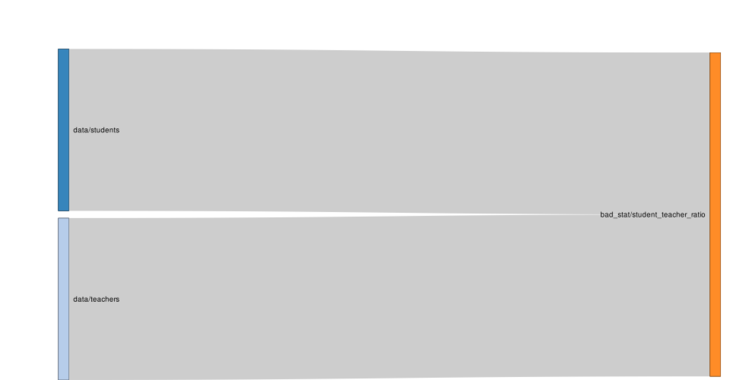
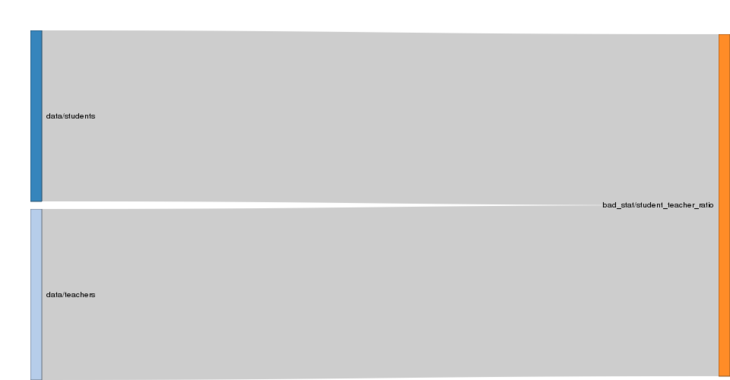
Show error locations.

Changed region(s): [[0.0301, 0.0579, 1.0, 1.0]]

diff --git a/README.md b/README.md
@@ -3,7 +3,7 @@
 
 
 
-[![Build status](https://travis-ci.org/aclemen1/modulr.svg)](https://travis-ci.org/aclemen1/modulr)
+[![Build status](https://travis-ci.org/aclemen1/modulr.svg?branch=devel)](https://travis-ci.org/aclemen1/modulr?branch=devel)
 [![Coverage status](https://codecov.io/github/aclemen1/modulr/coverage.svg?branch=devel)](http://codecov.io/github/aclemen1/modulr?branch=devel)
 [![Pending pull-requests](https://githubbadges.herokuapp.com/aclemen1/modulr/pulls.svg?style=flat)](https://github.com/aclemen1/modulr/pulls)
 [![GitHub issues](http://img.shields.io/github/issues-raw/aclemen1/modulr.svg)](http://waffle.io/aclemen1/modulr)
@@ -98,7 +98,8 @@ library(modulr)
       stringsAsFactors = F)
     return(students)
   }
-#> [2015-11-07T11:27:28 CET] Defining 'data/students' ... OK
+#> [2016-05-30T23:56:46 CEST] Defining 'data/students' ...
+#> OK
 ```
 
 The anatomy of this module is very simple: "data/student" is its name and the 
@@ -125,7 +126,8 @@ In parallel, let's ask Bob to provide us with a similar module.
       stringsAsFactors = F)
     return(teachers)
   }
-#> [2015-11-07T11:27:28 CET] Defining 'data/teachers' ... OK
+#> [2016-05-30T23:56:46 CEST] Defining 'data/teachers' ...
+#> OK
 ```
 
 Now that we have these two modules at our disposal, let's combine them into 
@@ -142,7 +144,8 @@ another module that returns a (bad) student-teacher ratio.
     ratio <- length(unique(students$id)) / length(unique(teachers$id))
     return(ratio)
   }
-#> [2015-11-07T11:27:28 CET] Defining 'bad_stat/student_teacher_ratio' ... OK
+#> [2016-05-30T23:56:46 CEST] Defining 'bad_stat/student_teacher_ratio' ...
+#> OK
 ```
 
 The `%requires%` operator allows us to specify the modules we rely on for the 
@@ -156,14 +159,17 @@ It is now time to see the DI framework in action.
 
 ```r
 bad_ratio %<=% "bad_stat/student_teacher_ratio"
-#> [2015-11-07T11:27:28 CET] Making 'bad_stat/student_teacher_ratio' ...
-#> [2015-11-07T11:27:28 CET] * Visiting and defining dependencies ...
-#> [2015-11-07T11:27:28 CET] * Constructing dependency graph ... OK
-#> [2015-11-07T11:27:28 CET] * Sorting 2 dependencies with 2 relations ... 2 layers, OK
-#> [2015-11-07T11:27:28 CET] * Evaluating new or outdated dependencies ...
-#> [2015-11-07T11:27:28 CET] ** Evaluating #1/2 (1/1): 'data/teachers' ...
-#> [2015-11-07T11:27:28 CET] ** Evaluating #2/2 (1/1): 'data/students' ...
-#> [2015-11-07T11:27:28 CET] DONE ('bad_stat/student_teacher_ratio')
+#> [2016-05-30T23:56:46 CEST] Making 'bad_stat/student_teacher_ratio' ...
+#> [2016-05-30T23:56:46 CEST] * Visiting and defining dependencies ...
+#> [2016-05-30T23:56:46 CEST] * Constructing dependency graph ...
+#> OK
+#> [2016-05-30T23:56:46 CEST] * Sorting 2 dependencies with 2 relations ...
+#> on 1 layer,
+#> OK
+#> [2016-05-30T23:56:46 CEST] * Evaluating new and outdated dependencies ...
+#> [2016-05-30T23:56:46 CEST] ** Evaluating #1/2 (layer #1/1): 'data/teachers' ...
+#> [2016-05-30T23:56:46 CEST] ** Evaluating #2/2 (layer #1/1): 'data/students' ...
+#> [2016-05-30T23:56:46 CEST] DONE ('bad_stat/student_teacher_ratio')
 ```
 
 We say that the `%<=%` operator **makes** the module given on its 
@@ -178,7 +184,7 @@ independent modules into layers.
 
 
 ```r
-graph_dependencies("bad_stat/student_teacher_ratio")
+plot_dependencies("bad_stat/student_teacher_ratio")
 ```
 
 ![](README-fig1.png)
